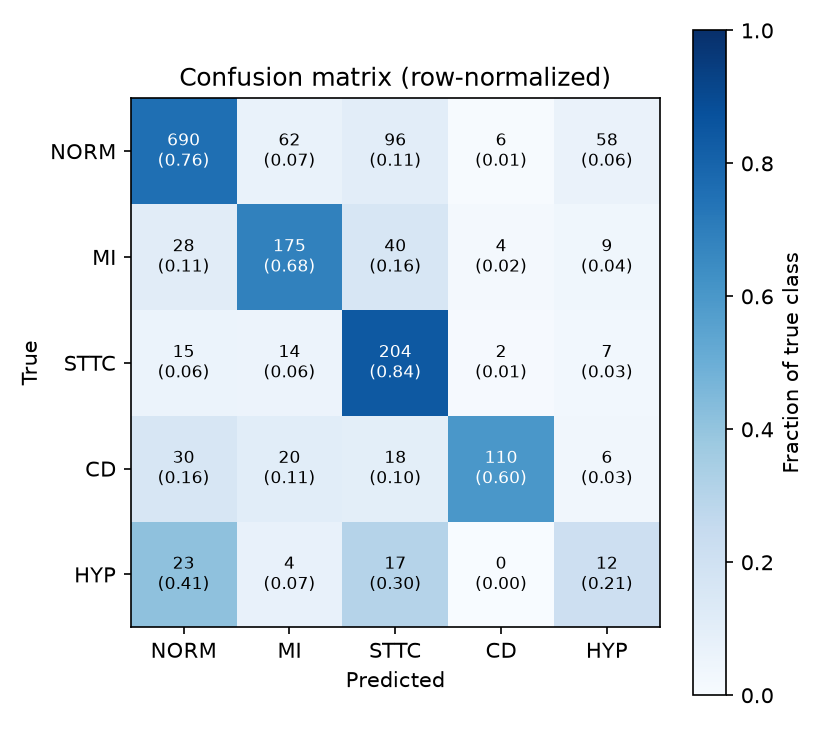
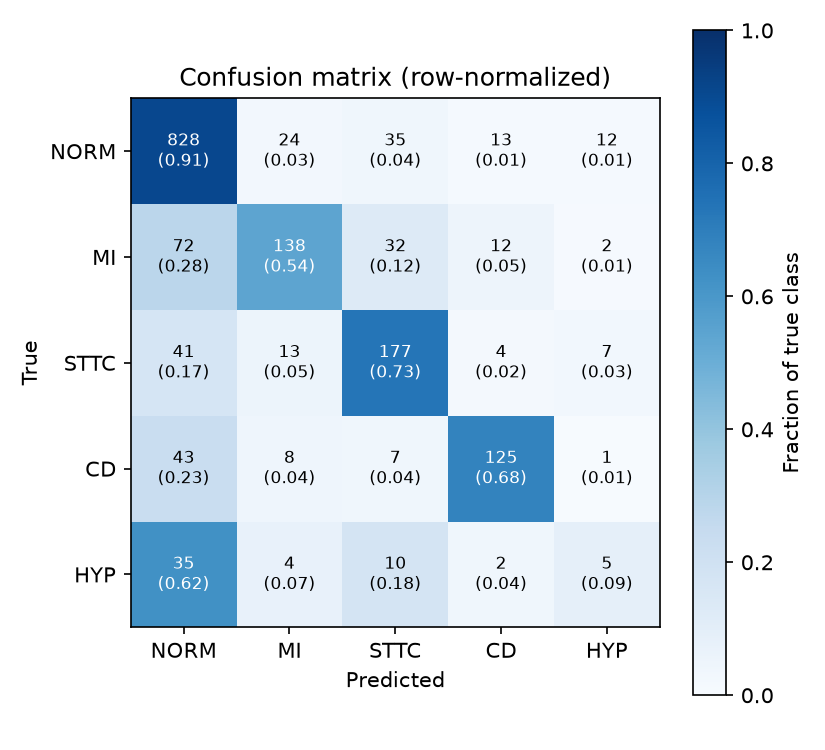
Document and revert a v2 architecture experiment (dilated conv + avg/max pool)
Tried widening the final conv layer's receptive field via dilation and
concatenating avg+max pooling to address global-average-pooling washing out
localized abnormalities. Result: raw accuracy improved but macro F1 and HYP
recall got worse, consistent with HYP being a data-scarcity problem rather
than an architecture one. Reverted scripts/model.py; full writeup kept in
docs/MODEL_ARCHITECTURE.md §5 so the attempt isn't lost.

Also surfaced and documented a real reproducibility gap: train_baseline.py's
DataLoader(num_workers=2) isn't covered by set_seed(), so identical configs
produce slightly different results run to run (~0.005 macro F1) -- flagged
in both docs rather than silently patched over.

diff --git a/scripts/model.py b/scripts/model.py
@@ -4,6 +4,11 @@ Kept small on purpose: this is a baseline to get the pipeline working end to
 end and to have a credible, explainable starting point. Swapping in a
 resnet-1d or transformer later is a natural "next step" to mention in an
 interview, not something to over-engineer on day one.
+
+A v2 variant (dilated final conv + concatenated avg/max pooling) was tried
+and reverted -- it improved raw accuracy but made macro F1 and HYP recall
+worse, not better. See docs/MODEL_ARCHITECTURE.md §5 for the full experiment
+writeup and why it didn't make the cut.
 """
 import torch
 import torch.nn as nn

diff --git a/docs/MODEL_ARCHITECTURE.md b/docs/MODEL_ARCHITECTURE.md
@@ -68,13 +68,22 @@ layers and two intervening max-pools. 340ms roughly spans a QRS complex plus par
 ST-T segment — the right order of magnitude for the kind of localized morphology that
 distinguishes these superclasses (e.g. STTC is defined by ST/T-wave shape).
 
-`AdaptiveAvgPool1d(1)` then averages that 34-sample-wide local pattern detector across all
-250 remaining time steps — i.e. across the full 10-second recording. The practical
-consequence: the model is a **local-pattern detector pooled globally**, not a beat-by-beat
-or whole-cycle model. Each of the 128 output channels reports "how strongly did my ~340ms
-pattern fire, averaged over the whole recording" — with no explicit notion of beat order,
-heart rate, or where in the recording something happened. This is a real capability
-boundary, not just a training artifact — see Limitations below.
+Importantly, that 340ms figure is the width of *one* window, not 34 separate windows. The
+250 remaining time steps are 250 evaluations of that same 340ms-wide detector, spaced only
+4 raw samples (40ms) apart — the "jump" accumulated through the two `MaxPool1d(2)` layers.
+A 340ms window on a 40ms step means each window overlaps ~88% with its neighbor (300ms of
+overlap out of 340ms), and any given input sample falls inside roughly 340/40 ≈ 8-9 of the
+250 windows. 250 steps × 40ms = 10,000ms, so the windows collectively sweep the full
+10-second recording as a densely overlapping sliding window, not as 250 independent
+non-overlapping segments.
+
+`AdaptiveAvgPool1d(1)` then averages those 250 (highly correlated, because they overlap so
+much) activations per channel into a single number. The practical consequence: the model is
+a **local-pattern detector, evaluated on a dense sliding window, pooled globally** — not a
+beat-by-beat or whole-cycle model. Each of the 128 output channels reports "how strongly did
+my ~340ms pattern fire, on average, as this window slid across the recording" — with no
+explicit notion of beat order, heart rate, or where in the recording something happened.
+This is a real capability boundary, not just a training artifact — see Limitations below.
 
 ## 3. Design decisions
 
@@ -130,7 +139,11 @@ early-stopping criterion were both switched from val_loss to macro-F1 partway th
 training, so it can plateau or drift independently of the actual target metric.
 
 **Fixed seed (42).** Reproducibility, added per `IMPLEMENTATION_PLAN.md`'s explicit Phase 1
-TODO list — not present in the original scaffold.
+TODO list — not present in the original scaffold. **Caveat, discovered 2026-08-19:** this
+does not actually make training fully reproducible — see README §6's reproducibility note.
+`set_seed()` covers numpy/torch in the main process, but `train_baseline.py`'s `DataLoader`
+uses `num_workers=2`, whose worker subprocesses aren't covered by that seed call. Two
+otherwise-identical runs landed 0.005 macro F1 apart (0.6028 vs 0.6080).
 
 ## 4. Limitations
 
@@ -166,3 +179,55 @@ TODO list — not present in the original scaffold.
   as "confidence," but there's no reliability diagram or expected-calibration-error analysis
   behind that framing. A small model, trained with aggressive class weighting, on a class
   with 535 examples, is a plausible candidate for miscalibration — this hasn't been checked.
+
+## 5. v2 experiment: wider receptive field + avg/max pooling (attempted, reverted)
+
+**Motivation.** Global average pooling (§2-3 above) reports one number per channel: how
+strongly a pattern fired *on average* across the whole 10-second recording. For a
+diagnostic feature that's genuinely localized — one abnormal beat in an otherwise normal
+strip — averaging dilutes it against however many normal-looking windows surround it. Two
+changes were proposed to address this directly, both cheap:
+
+1. **Dilation on the final conv layer** (`dilation=2`, `padding=4` to preserve the 250-step
+   sequence length) — widens that layer's receptive field from 340ms to ~600ms at 100Hz, at
+   zero extra parameters, closer to a full beat cycle.
+2. **Concatenated avg + max pooling** instead of avg alone — doubles the pooled feature
+   vector to 256-dim, so the classifier sees both "how strongly did this pattern fire on
+   average" (avg) and "did this pattern fire *anywhere* at all" (max, which shouldn't get
+   washed out by surrounding normal beats the way an average does).
+
+Total cost: 55,205 → 55,845 parameters (+640, all in the now-wider final `Linear` layer).
+
+**Result — this made macro F1 worse, not better**, trained with the exact same seed (42),
+data, and hyperparameters as the accepted v1 baseline for a clean comparison:
+
+| Run | Macro F1 | Accuracy | NORM F1 | MI F1 | STTC F1 | CD F1 | HYP F1 |
+|---|---|---|---|---|---|---|---|
+| v1 (accepted baseline, see README §6) | 0.6028 | 0.72 | 0.81 | 0.66 | 0.66 | 0.72 | 0.16 |
+| v2 (dilated conv + avg/max pool) | 0.5992 | **0.75** | **0.84** | 0.65 | 0.71 | 0.70 | **0.11** |
+
+*(0.6028 is the v1 number as it stood when this comparison was run. Per the reproducibility
+caveat above, a same-config re-run later landed at 0.6080 instead — within the ~0.005 run-to-run
+noise this setup produces, not a sign v1 and v2 are closer than they look. v2's 0.5992 is a
+single run and hasn't been re-run to check its own variance.)*
+
+**Diagnosis.** The pattern is consistent with every other change tried in Phase 1 (see
+README §6's earlier before/after): raw accuracy improved (0.72→0.75, and 3 of 5 per-class
+F1 scores improved or held steady) while macro F1 got *worse*, because the extra model
+capacity and richer 256-dim feature vector gave the model more ways to fit the
+well-represented classes more precisely, with nothing to anchor a better decision boundary
+for HYP specifically — its 535 examples didn't grow just because the model got more
+expressive. If anything, more capacity with the same starved amount of HYP data looks like
+it made overfitting toward the majority classes easier, not harder. This is further
+evidence for the standing diagnosis in §4 above: **HYP is a data problem, not an
+architecture problem**, and changes that don't add HYP-specific data or supervision keep
+trading other classes' performance for it rather than fixing it.
+
+**Decision:** reverted. `scripts/model.py` is back to the single-avg-pool, non-dilated
+architecture described in §2-3; this section is the only remaining record of the v2 attempt
+(git history also has it, but this doc is the source of truth per this project's
+documentation convention — see `docs/IMPLEMENTATION_PLAN.md` §7). The natural next
+experiment, floated but not yet tried, is HYP-specific oversampling (weighted random
+sampling in the training `DataLoader`) — a genuinely different lever from anything
+attempted so far, since it targets the data imbalance directly rather than working around
+it through architecture or loss weighting.

diff --git a/README.md b/README.md
@@ -90,17 +90,21 @@ model-specific limitations (as distinct from the project-level ones in §8 below
 Trained on real PTB-XL (100Hz, PhysioNet release 1.0.3), 5-superclass task
 (NORM/MI/STTC/CD/HYP), standard fold split (1-8 train / 9 val / 10 test).
 
-**Current result — macro F1 (test): 0.6028** — below the plan's 0.70 target.
-Early stopping at epoch 25 (patience=5), best checkpoint epoch 20
-(val_macro_f1=0.6236).
+**Current result — macro F1 (test): 0.6080** — below the plan's 0.70 target.
+Early stopping at epoch 14 (patience=5), best checkpoint epoch 9
+(val_macro_f1=0.6002).
 
 | Class | Precision | Recall | F1 | Support |
 |---|---|---|---|---|
-| NORM | 0.88 | 0.76 | 0.81 | 912 |
-| MI | 0.64 | 0.68 | 0.66 | 256 |
-| STTC | 0.54 | 0.84 | 0.66 | 242 |
-| CD | 0.90 | 0.60 | 0.72 | 184 |
-| HYP | 0.13 | 0.21 | 0.16 | 56 |
+| NORM | 0.81 | 0.91 | 0.86 | 912 |
+| MI | 0.74 | 0.54 | 0.62 | 256 |
+| STTC | 0.68 | 0.73 | 0.70 | 242 |
+| CD | 0.80 | 0.68 | 0.74 | 184 |
+| HYP | 0.19 | 0.09 | 0.12 | 56 |
+
+*(This specific checkpoint is a 2026-08-19 re-run of the identical seed/config described
+below — see the reproducibility note after the Decision paragraph for why the number moved
+from 0.6028 to 0.6080 despite nothing being changed.)*
 
 ![Confusion matrix](results/confusion_matrix.png)
 ![Example ECG traces with predicted vs. true label](results/example_traces.png)
@@ -143,6 +147,32 @@ is the harder and higher-priority part of this project per the plan). Revisit
 HYP-specific interventions (oversampling, focal loss) if time remains after
 Phase 2-3 are solid.
 
+**v2 architecture experiment (2026-08-19, attempted and reverted):** tried a
+dilated final conv layer (wider receptive field, 340ms→600ms) plus
+concatenated avg+max pooling (instead of avg alone), aimed at the same
+"global average pooling washes out localized abnormalities" concern. Result:
+raw accuracy improved (0.72→0.75) but macro F1 got worse (0.6028→0.5992) and
+HYP F1 got worse too (0.16→0.11) — more model capacity gave the model more
+ways to fit the well-represented classes without any more HYP data to anchor
+that class's boundary. Reverted; full writeup and the before/after table are
+in `docs/MODEL_ARCHITECTURE.md` §5, since `scripts/model.py` itself no longer
+shows any trace of the attempt.
+
+**Reproducibility note (2026-08-19):** regenerating the reverted checkpoint —
+identical architecture, seed (42), and hyperparameters as the run that
+produced the documented 0.6028 — actually produced macro F1 0.6080, a
+different result. `train_baseline.py`'s `set_seed()` seeds numpy/torch in the
+main process, but the `DataLoader` uses `num_workers=2`; the worker
+subprocesses' own RNG state isn't covered by that single seed call, so batch
+ordering/timing isn't actually fixed run-to-run despite "using a fixed seed."
+Treat 0.6028 and 0.6080 as two draws from the same config's inherent
+run-to-run variance (~0.005 macro F1), not two different models — the
+architecture and training recipe are identical. Not fixed yet; a real fix
+would mean `num_workers=0` (slower) or a properly seeded per-worker
+`worker_init_fn` + `torch.Generator`, plus pinning
+`torch.backends.cudnn.deterministic=True`. Flagged rather than silently
+patched over.
+
 ### Phase 2 — openCARP simulation
 
 *(Not yet started — see plan `docs/IMPLEMENTATION_PLAN.md` §4.)*
@@ -161,12 +191,6 @@ scp <user>@<host>:/path/to/pfa/results/ecg_viewer.html ~/Downloads/
 ```
 then open the downloaded file directly.
 
-Also published as a Claude Artifact —
-**[ECG Diagnosis Viewer](https://claude.ai/code/artifact/22bb43d4-bd37-410f-9049-dad77b95063e)**
-— but that link only resolves in a browser logged into the Claude account that published it,
-which doesn't help from a bare SSH session; the local file above is the reliable path. If the
-artifact link goes stale, find it again via `claude.ai/code/artifacts` in the Claude web app.
-
 **How to use it:** pick a diagnostic superclass in the left rail (NORM/MI/STTC/CD/HYP), then
 an individual test-set sample from the list below it — each row is marked ✓ or ✗ against the
 true label. Selecting a sample shows the model's full confidence breakdown across all five
@@ -177,8 +201,7 @@ click any of the 12 small panels to make it the primary trace.
 
 **Reusable across models by construction:** the viewer reads a fixed JSON schema (id / true
 label / predicted label / per-class confidence / per-lead waveform) rather than anything
-specific to `ECGConvNet`. To showcase a future, more complex model, regenerate the data and
-republish — the viewer HTML itself doesn't change:
+specific to `ECGConvNet`. To showcase a future, more complex model, regenerate the data:
 
 ```bash
 python scripts/export_viewer_data.py --checkpoint models/<new_checkpoint>.pt \
@@ -186,9 +209,8 @@ python scripts/export_viewer_data.py --checkpoint models/<new_checkpoint>.pt \
 ```
 
 then hand the resulting `results/viewer_data.json` to Claude Code to splice into the viewer
-template and rewrite `results/ecg_viewer.html` (and, optionally, republish the Claude
-Artifact copy above to the same URL). The header's model name and export date update
-automatically from the JSON — no other viewer changes needed.
+template and rewrite `results/ecg_viewer.html`. The header's model name and export date
+update automatically from the JSON — no other viewer changes needed.
 
 ## 8. Limitations & Future Work
 
